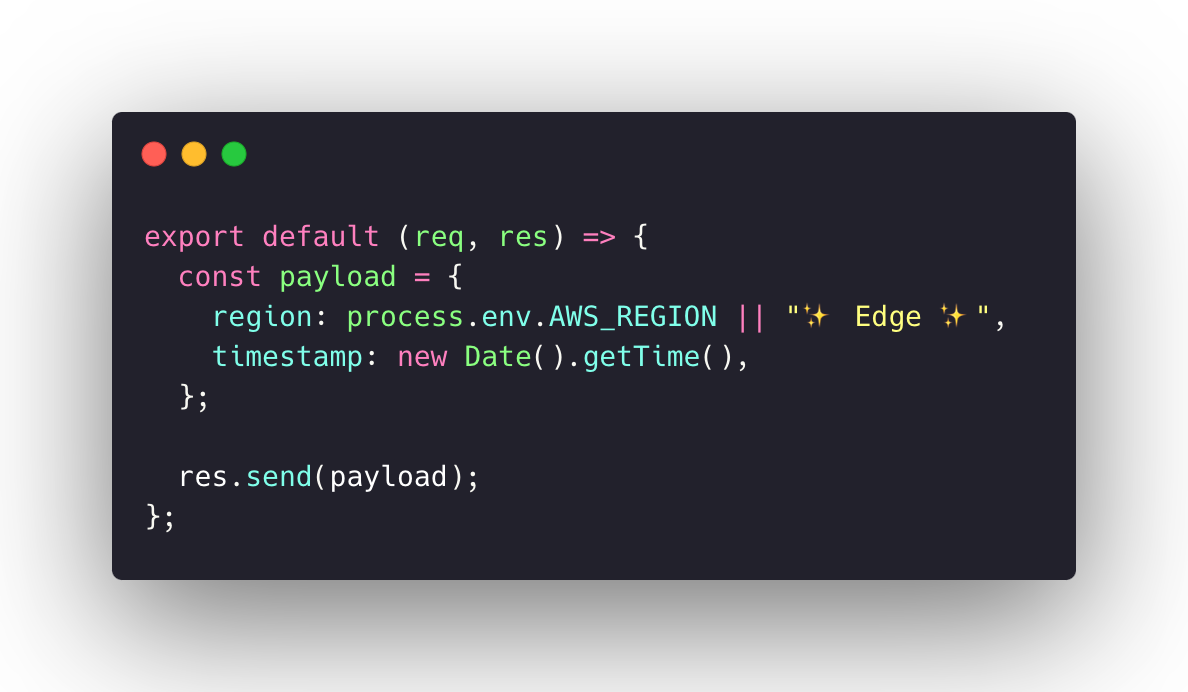
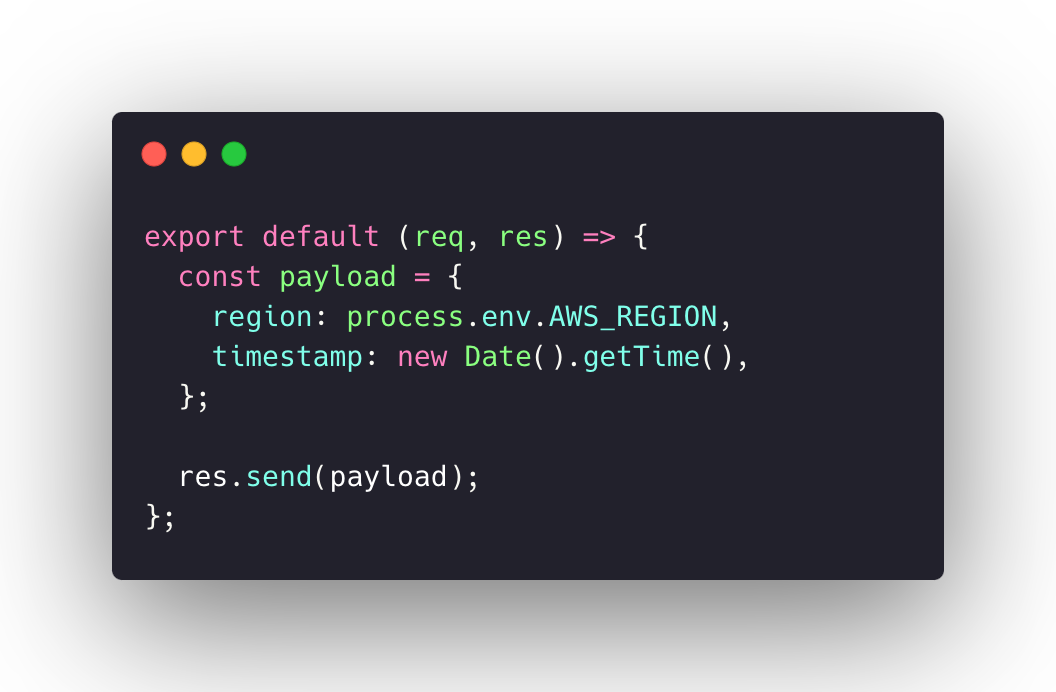
feat(slides): add outro + tweaks everywhere

diff --git a/slides/src/components/Browser.svelte b/slides/src/components/Browser.svelte
@@ -58,8 +58,10 @@
     border-radius: 50%;
     cursor: pointer;
     padding: 4px;
-    height: 32px;
-    width: 32px;
+    height: 36px;
+    width: 36px;
+    display: grid;
+    place-items: center;
     transition: background-color 100ms;
   }
   button:hover {

diff --git a/api/date-edge.js b/api/date-edge.js
@@ -4,7 +4,7 @@ export const config = {
 
 export default () => {
   const payload = {
-    region: process.env.AWS_REGION || "✨ Edge ✨",
+    region: "✨ Edge ✨",
     timestamp: new Date().getTime(),
   };
 

diff --git a/api/date-with-cache.js b/api/date-with-cache.js
@@ -1,6 +1,6 @@
 export default (req, res) => {
   const payload = {
-    region: process.env.AWS_REGION || "✨ Edge ✨",
+    region: process.env.AWS_REGION,
     timestamp: new Date().getTime(),
   };
 

diff --git a/api/date.js b/api/date.js
@@ -1,6 +1,6 @@
 export default (req, res) => {
   const payload = {
-    region: process.env.AWS_REGION || "✨ Edge ✨",
+    region: process.env.AWS_REGION,
     timestamp: new Date().getTime(),
   };
 
